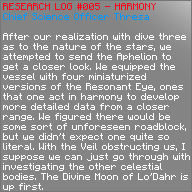
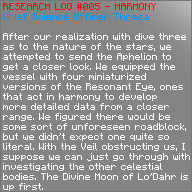
small fixes and tweaks (#81)

Changed region(s): [[0.125, 0.4688, 0.9375, 0.5312]]

diff --git a/docs/World/Drehmal/Overworld.md b/docs/World/Drehmal/Overworld.md
@@ -7,14 +7,14 @@ search:
 
 --8<-- "under_construction.md"
 
-!!! tip "This page is about the world of Drehmal which the player can explore in-game. For the serpent deity that shares a name with the world, see [[Drehmal]]."
+!!! tip "This page is about the world of Drehmal which players can explore in-game. For the serpent deity that shares a name with the world, see [[Drehmal]]."
 
 ![[full_drehmal_map.png]]{ align=center width="800" }
 > The continent of Drehmal and outlying islands, as they appear in-game.[^1]
 
 The continent of **Drehmal** spans approximately 12,000 blocks in either direction, containing a total of [31 unique custom biomes](/World/Drehmal/Regions/), [14 major settlements](/World/Drehmal/Settlements/), and hundreds of carefully placed and crafted [points of interest](/World/Drehmal/Points_of_Interest/). The vast majority of the map's content is found here, including story locations, unique items such as [legendary](/Items/Legendary_Items/) and [mythical](/Items/Mythical_weapons) gear, original builds, and more.
 
-The term **"Drehmal"** used in this context refers to the single large continent that makes up most of the map's total landmass, as well as its minor outlying islands in the far northwest and southeast corners of the map. Drehmal shares its name with its creator, the [[Drehmal|deity]] of the same name, who re-formed and shaped the world after it was ruined in the disastrous events that ended the First Avihm. The term "Drehmal" can also be used to refer to the **[Realm of Drehmal](/Lore/Realm_of_Drehmal/)**, which encompasses the planetary body that Drehmal is found upon, as well as its natural satellites—four moons and the equivalent of a sun—all of which appear to orbit the planet in a roughly geocentric system.
+The term **"Drehmal"** used in this context refers to the single large continent that makes up most of the map's total landmass, as well as its major outlying islands in the far northwest and southeast corners of the map. Drehmal shares its name with its creator, the [[Drehmal|deity]] of the same name, who re-formed and shaped the world after it was ruined in the disastrous events that ended the First Avihm. The term "Drehmal" can also be used to refer to the **[Realm of Drehmal](/Lore/Realm_of_Drehmal/)**, which encompasses the planetary body that Drehmal is found upon, as well as its natural satellites—four moons and the equivalent of a sun—all of which appear to orbit the planet in a roughly geocentric system.
 
 ## Gameplay
 Drehmal is functionally an open world, as once the player emerges from the [[Stasis Facility]], they can choose to explore in any direction. There are areas that the player is pointed towards sometimes, such as [[Drabyel]] and [[Av'Sal]] at the very beginning of the map, but the player is not confined to any particular path. Exploration is fundamentally linked to story progression, as finding and climbing [[Terminus Network#Towers|Avsohmic warp towers]] gradually unlocks story events.
@@ -22,29 +22,28 @@ Drehmal is functionally an open world, as once the player emerges from the [[Sta
 Drehmal's most advanced and largest civilizations have long since fallen by the time that the player's journey begins, with most regions being relatively isolated. Consequently, there are very few maintained roads to guide the player between regions, and those that do exist often trail off at certain points. This is an intentional design choice, as there are points of interest scattered throughout the world off the beaten path. 
 
 ![[map_103.png]]{ width="512" }
-> The map of Drehmal sold by [[Adventuring Merchant|Adventuring Merchants]] in major settlements throughout the continent, denoting major settlements with colored dots.
+> The map of Drehmal sold by [[Adventuring Merchant|Adventuring Merchants]] in official towns throughout the continent, denoting major settlements with colored dots.
 
 Beyond the reaches of the continent, sea stretches out for a few hundred blocks before abruptly falling off into the void.
-
 
 ## Lore
 The history of Drehmal is effectively the same as the history of the entire map, which is what this entire [Lore](/Lore/) section is for. Therefore, this article's lore will focus on the history of the terrain itself, as well as extremely prominent bits of lore that have to do with the main story.
 
-Reality as known in Drehmal was first formed around the [[Primal Tree]]: a sentient, colossal tree imbued with astronomical amounts of power. The Tree created the [Aspects](/Lore/Higher_Beings/Aspects/), draconic gods tied to certain concepts and domains of reality such as the [[Dahr|Sea]], [[Khive|Magic]], or [[Lai|Warmth]]. These Aspects, along with the Tree, built the world during the First Avihm, an era that is effectively considered prehistorical in modern Drehmal. Aspects created portions of the land corresponding to their domains; for example, [[Nahyn]], Aspect of Mountains, is responsible for much of Drehmal's mountains, and the Land Aspect [[Taihgel]] was particularly active in creating the actual land that formed the continent. During this era, [[Drehmari]] were first created by the tree, and populated three separate continents. Eventually, however, war broke out, and the [[Battle of Karesh]] was fought at the base of the tree, a battle so violent that it began to burn down the Primal Tree. In its final act, the Tree split its essence into the three [Deities](/Lore/Higher_Beings/Deities/): [[Maelihs]], [[Virtuo]], and [[Drehmal]], creating three new gods with power even greater than the Aspects, and who would take a much more active role in the history of the world.
+Reality as known in Drehmal was first formed around the [[Primal Tree]]: a sentient, colossal tree imbued with astronomical amounts of power. The Tree created the [Aspects](/Lore/Higher_Beings/Aspects/), draconic gods tied to certain concepts and domains of reality such as the [[Dahr|Sea]], [[Khive|Magic]], or [[Lai|Warmth]]. These Aspects, along with the Tree, built the world during the First Avihm, an era that is effectively considered prehistorical in modern Drehmal. Aspects created portions of the land corresponding to their domains; for example, [[Nahyn]], Aspect of Mountains, is responsible for much of Drehmal's mountains, and the Land Aspect [[Taihgel]] was particularly active in creating the actual land that formed the continent. During this era, [[Drehmari]] were first created by the tree, and populated three separate continents. Eventually, however, war broke out, and a battle was fought at the base of the tree, becoming so violent that it began to burn the tree down. In its final act, the Tree split its essence into the three [Deities](/Lore/Higher_Beings/Deities/): [[Maelihs]], [[Virtuo]], and [[Drehmal]], creating three new gods with power even greater than the Aspects, and who would take a much more active role in the history of the world.
 
-The Felling of the Tree marked the end of the First Avihm, with the ensuing chaos literally splitting the world into pieces. The task of reconstruction fell to Drehmal, the newly born colossal serpentine creator deity, and they set to their task, earning the title of "Realmbinder." Drehmal spent decades traveling to the extents of the planet, tying pieces of land back together and mending the broken world, slowly making the world habitable again until it eventually reached the approximate state that we find it in, during the early Second Avihm. The modern-day Drehmal appears to be effectively a single supercontinent made up of the original central continent, in addition to bits and pieces of the former western/eastern continents, although the exact extent to which this is true is not known. 
+This event, the [[Felling|Felling of the Primal Tree]], marked the end of the First Avihm, with the ensuing chaos literally splitting the world into pieces. The task of reconstruction fell to Drehmal, the newly born colossal serpentine creator deity, and they set to their task, earning the title of "Realmbinder." Drehmal spent decades traveling to the extents of the disc, tying pieces of land back together and mending the broken world, slowly making the world habitable again until it eventually reached the approximate state that we find it in, during the early Second Avihm. The modern-day Drehmal appears to be effectively a single supercontinent made up of the original central continent, in addition to bits and pieces of the former western/eastern continents, although the exact extent to which this is true is not known. 
 
-Of note, Drehmal is not the only land on [[Disc|its planet]], as there are two forgotten continents far to the west and east of even its outermost islands, which were excluded from the new continent by Drehmal in their reformation efforts. These continents, known as [[Western Xivrhynt]] and [[Eastern Xivrhynt]], are mentioned very sparingly in the map, but their existence is known to a select few. It is not known exactly how much of modern-day Drehmal may have been rearranged in the deity's active period, nor is it clear if parts of the continent may have originally been part of what we now know as Xivrhynt. These continents do not actually exist in-game. 
+Of note, Drehmal is not the only land on [[Disc|its planet]], as there are two forgotten continents far to the west and east of even its outermost islands, which were excluded from the new continent by Drehmal in their reformation efforts. These continents, known collectively as **"Xivrhynt"** (and separately as [[Western Xivrhynt]] and [[Eastern Xivrhynt]]), are mentioned very sparingly in the map, but their existence is known to a select few. It is not known exactly how much of modern-day Drehmal may have been rearranged in the deity's active period, nor is it clear if parts of the continent may have originally been part of what we now know as Xivrhynt. These continents do not actually exist in-game. 
 
 After their work had been finished in early Av2, [[Drehmal]] entered a deep slumber far beneath the [[Primal Caverns]], and has not awoken to this day, well over 2000 years later.
 
 The terrain of Drehmal has changed very little in the time since Drehmal's active period, with a few notable exceptions. The Empire of [[Avsohm]], in power for approximately 200 years at the end of Av2, was easily the most expansive empire to ever exist on the continent, as well as the most technologically advanced. Their construction efforts, particularly in the building of research and industrial facilities, altered the Drehmal landscape, including through the construction of massive pipelines throughout the regions of [[Akhlo'Rohma]] and [[Faehrcyle]]. Their [[Fall of Avsohm|violent collapse]] marked the end of Av2, and left the continent covered in the ruins of their cities, towns, and facilities.
 
-During the reign of Avsohm, the [[Frostfang Catastrophe]] occurred, known to this day as the greatest ecological disaster in the realm's history. In a conflict between Avsohm and the tribes of [[Faehrcyle]], the Faehrcylian leader [[Homli Tahsgan]] accidentally conjured a blizzard so massive that it permanently altered the climates of multiple northern regions, including Faehrcyle, [[Highfall Tundra]], the [[Gulf of Drehmal]], [[Merijool]], and [[Casai]]. All of these regions were once much more lush and fertile than they are today, irreversably being made colder by the magical blizzard, with Faehrcyle suffering the most, turning from a cold steppe into a frozen wasteland, eternally buried under a meters-thick layer of snow.
+During the reign of Avsohm, the [[Frostfang Catastrophe]] occurred, known to this day as the greatest ecological disaster in the realm's history. In a conflict between Avsohm and the tribes of [[Faehrcyle]], the Faehrcylian leader [[Homli Tahsgan]] accidentally conjured a blizzard so massive that it permanently altered the climates of multiple northern regions, including Faehrcyle, [[Highfall Tundra]], the [[Gulf of Drehmal]], [[Merijool]], and [[Casai]]. All of these regions were once much more lush and fertile than they are today, irreversibly being made colder by the magical blizzard. Faehrcyle suffered the most, turning from a cold steppe into a frozen wasteland, eternally buried under a meters-thick layer of snow.
 
-The most recent major alteration to the terrain of Drehmal came in mid-late Av3, approximately 400 years before the player's journey. This event, the Desolation of the Heartwood, was enacted by the chaos deity [[Maelihs]], who dropped the [[Skullmother]] (the approximate equivalent of a nuclear bomb) on the [[South Heartwood]], a once-lush forest/jungle region. The ensuing blast, more a show of power and act of terror than a true military advance, permanently burnt and made infertile the entire southern half of the Heartwood, once the largest forest in all of Drehmal, leaving the land scarred to this very day.
+The most recent major alteration to the terrain of Drehmal came in mid-late Av3, approximately 400 years before the player's journey. This event, the Desolation of the Heartwood, was enacted by the chaos deity [[Maelihs]], who dropped the [[Skullmother]] (the approximate equivalent of a nuclear bomb) on the [[South Heartwood]], a once-lush forest/jungle region. The ensuing blast, more a show of power and act of terror than a true military advance, permanently burnt and made infertile the entire southern half of the Heartwood, once the largest forest in all of Drehmal, leaving the land scarred to this very day. For this reason, the South Heartwood is now more frequently referred to as "Mael's Desolation".
 
-## Dev Area
-At approximately X=27000, Z=0, there is a large area containing multiple arenas, dungeons, and hub locations, as well as test builds and planning areas. This portion of the map, known as the "Dev Area," is where the player is teleported during certain sequences that require a different setup than their real locations would allow, or if the area is simply meant to be kept away from the player's eyes. While it is possible to clip out into the dev area, this is **NOT** recommended, as there are extremely important functions reliant on this area, and it is not canon to the map or intended to ever be seen. In fact, even approaching certain areas will instantly kill the player, even if in Creative Mode or when the NoFail setting is enabled.
+## Dev Zone
+At approximately X=27000, Z=0, there is a large area containing multiple arenas, dungeons, and hub locations, as well as test builds and planning areas. This portion of the map, known as the "Dev Zone," is where the player is teleported during certain sequences that require a different setup than their real locations would allow, or if the area is simply meant to be kept away from the player's eyes. While it is possible to clip out into the dev area, this is **NOT** recommended, as there are extremely important functions reliant on this area, and it is not canon to the map or intended to ever be seen. In fact, even approaching certain areas will instantly kill the player, even if in Creative Mode or when the NoFail setting is enabled.
 
 [^1]: Image captured with [Xaero's World Map](https://www.curseforge.com/minecraft/mc-mods/xaeros-world-map/files/all?page=1&pageSize=20&version=1.20.1&gameVersionTypeId=4), a mod that is not part of the official Drehmal modpack but is compatible with the map. This mod is not recommended for first-time players, as it will immediately spoil all terrain features upon being opened for the first time, unlike progression-based mods like [JourneyMap](https://www.curseforge.com/minecraft/mc-mods/journeymap/files/all?page=1&pageSize=20&version=1.20.1&gameVersionTypeId=4). However, it can be a very valuable tool for returning players or successive playthroughs, or if you simply are not bothered by this type of spoiler.

diff --git a/docs/Lore/Historical_Events/Conflicts/Battle_for_Drehmal.md b/docs/Lore/Historical_Events/Conflicts/Battle_for_Drehmal.md
@@ -13,7 +13,7 @@ Masters Ultva and Hovadchear, the founders of the Order of Insohm, were greatly 
 
 ## Early War
 
-The progress of the Insohmic Coalition was initially slow, despite significant monetary support from the Council's governments. [[Castle Scarstone]] was constructed on mountains east of the [[North Heartwood]] as a base of operations for the war. The situation worsened in Av3 847 when [[Castle Hovadchear Crater|Castle Hovadchear]], the headquarters of the Order, disappeared suddenly and inexplicably along with Master Hovadchear and only left a large crater behind. Not long later, Master Ultva locked himself inside an [[Avsohmic Vault|Avsohmic vault]] in [[Casai]] after seemingly going insane from reading something inside. He was never seen again. The king (name unknown) of Highfall and Duke Duruis of the Kingdom of Dusps threatened to pull their troops out of the West because of their fruitless war spending, and form their own alliance, separate from Insohm. A meeting of the Insohmic Council was called aboard the airship [[I.C.S. Arbiter]]. Councillor Sehdo of the United Townships of Dreh'Noha expressed his wish to leave the coalition unless immediate progress was seen, but Councilor Zarna of the Casain Empire and Councillor Qeijo of the Republic of Merijool, who were at greater risk due to their lands' proximity to Maelihs's empire, threatened anyone trying to leave the Order with war. After a heated argument between council members, Councillor Vahid of the Parochial Enclave of Firteid entered a long and passionate monologue about the sins of Maelihs, with the attention of the entire council. This motivated the councillors in their war efforts, and after a unanimous vote, the Pact of Vengeance was signed, instating Vahid as the new Master of Insohm.
+The progress of the Insohmic Coalition was initially slow, despite significant monetary support from the Council's governments. [[Castle Scarstone]] was constructed on mountains east of the [[North Heartwood]] as a base of operations for the war. The situation worsened in Av3 847 when [[Castle Hovadchear Crater|Castle Hovadchear]], the headquarters of the Order, disappeared suddenly and inexplicably along with Master Hovadchear and only left a large crater behind. Not long later, Master Ultva locked himself inside an [[Avsohmic Vault|Avsohmic vault]] in [[Casai]] after seemingly going insane from reading something inside. He was never seen again. The king (name unknown) of Highfall and Duke Duruis of the Kingdom of Dusps threatened to pull their troops out of the West because of their fruitless war spending, and form their own alliance, separate from Insohm. A meeting of the Insohmic Council was called aboard the airship [[ICS Arbiter]]. Councillor Sehdo of the United Townships of Dreh'Noha expressed his wish to leave the coalition unless immediate progress was seen, but Councilor Zarna of the Casain Empire and Councillor Qeijo of the Republic of Merijool, who were at greater risk due to their lands' proximity to Maelihs's empire, threatened anyone trying to leave the Order with war. After a heated argument between council members, Councillor Vahid of the Parochial Enclave of Firteid entered a long and passionate monologue about the sins of Maelihs, with the attention of the entire council. This motivated the councillors in their war efforts, and after a unanimous vote, the Pact of Vengeance was signed, instating Vahid as the new Master of Insohm.
 
 ## Success Under Vahid
 

diff --git a/docs/Items/Fervor_Stones.md b/docs/Items/Fervor_Stones.md
@@ -72,10 +72,21 @@ The Stone of Worry is one of three Fervor Stone variants, appearing as a deep re
     | [[Ebony Veldt]] | In the ruins of [[Caer Adacia]]. Deep underground, a building has a staircase which appears to be blocked off by collapsed rubble. Digging through this rubble leads to a small altar with the stone in an item frame. | **(-1285, 5, 416)** |
     | [[Mt. Yavhlix]] | In a shulker box in the [[Resonant Halls]], inside the same side room that contains the [[Activity_Log-_Project_Panopticon.md|Activity Log - Project Panopticon]] book. | **(26897, 78, -43)** |
 
-## Final Locations and Use
+## Final Locations
 !!! danger "If you have not reached 75% completion or finished the full 75% story sequence through the "Apotheosis" advancement, we strongly advise that you do not continue to read this article."
 
 !!! danger "![Spoiler Door](/assets/img/spoiler_door.png)"
+
+The final three Fervor Stones are found on [[Lo'Dahr]].
+
+??? warning "Final Fervor Stone Locations"
+    | **Fervor Stone** | **Domain** | **Location** | **Coordinates** |
+    |:----------------:|:----------:|:-------------------------------------------|:------------:|
+    | Agony            | [[Nahyn's Domain]] | In a chest near the top of [[Fort Aelon]]. | **(79, 194, -254)** |
+    | Luxury           | [[Moen's Domain]] | In a hidden building in [[Naharja]], reached by digging through a wall, in a chest behind a banner. | **(252, 78, -825)** |
+    | Worry            | [[Loe's Domain]] | In an isolated room along the [[Greyspire Castle]] roof. | **(-845, 215, 516)** |
+
+## Use
 
 Fervor Stones are used to upgrade [Mythical Weapons](/Items/Mythical_Weapons/) at the Soletta, the fabled forge in [[Ytaj]] behind the Prismatic Council room. 
 
@@ -93,14 +104,7 @@ Stones of Luxury add a permanent +4 Max Health (+2 Hearts) buff to the mythical 
 
 Stones of Worry add a permanent +0.01 Movement Speed to the mythical weapon when held, adding to existing bonuses or penalties in the same manner as Stones of Luxury.
 
-The final three Fervor Stones are found on [[Lo'Dahr]].
-
-??? warning "Final Fervor Stone Locations"
-    | **Fervor Stone** | **Domain** | **Location** | **Coordinates** |
-    |:----------------:|:----------:|:-------------------------------------------|:------------:|
-    | Agony            | [[Nahyn's Domain]] | In a chest near the top of [[Fort Aelon]]. | **(79, 194, -254)** |
-    | Luxury           | [[Moen's Domain]] | In a hidden building in [[Naharja]], reached by digging through a wall, in a chest behind a banner. | **(252, 78, -825)** |
-    | Worry            | [[Loe's Domain]] | In an isolated room along the [[Castle Greyspire]] roof. | **(-845, 215, 516)** |
+Only one type of each Fervor Stone may be applied to a given weapon: it is not possible to, for instance, stack three Stones of Worry onto a single mythical.
 
 ## Extras
 There are exactly enough Fervor Stones in the map to upgrade all 8 Mythical weapons, so losing or accidentally destroying one (which can occur at the Soletta through known, but rare bugs) could lock the player out of fully upgrading all Mythicals. 

diff --git a/docs/World/Drehmal/Regions/Eastern_Regions/Akhlo'Rohma.md b/docs/World/Drehmal/Regions/Eastern_Regions/Akhlo'Rohma.md
@@ -13,7 +13,7 @@ Akhlo'Rohma is made up of mostly flat grassland with some large terracotta hills
 - Central: The flowers of the central segment consist of a pink, red and gold color pallette. This area consists generally of flatter grassland, with some rolling hills. <br>
 - South: The southern segment has flowers that are primarily purple and blue, but also have red, pink and gold/yellow features. <br>
 
-The region also includes the [[Sunken Astral Body]], a large crater with a lake at the bottom, containing a stone island riddled with smaller craters. The Akhlo'Rohman landscape features bluffs and rocks with vividly-colored terracotta, mostly dark pink and red, but also with some stripes of yellow, blue and green.
+The region also includes the Sunken Astral Body, a large crater with a lake at the bottom, containing a stone island riddled with smaller craters. The Akhlo'Rohman landscape features bluffs and rocks with vividly-colored terracotta, mostly dark pink and red, but also with some stripes of yellow, blue and green.
 
 The city of [[Dusps]] is located atop a colorful hill in southern Akhlo'Rohma, along with the small village of [[Marahza]] to the north, on the south banks of the Resting River. 
 
@@ -84,7 +84,7 @@ Azaim was a city in north Akhlo'Rohma that was settled by Casain migrants. It wa
 
 ### Sunken Astral Body
 
-The Sunken Astral Body is a chunk of the moon of [[LD|Lo'Dahr]] that fell onto Drehmal, forming a massive crater on impact. The mini-biome's ground consists of stone riddled with craters, and the effect of gravity here is reduced. The area is also inhabited by the static, giant jellyfish-like creatures (represented by glass structures in-game) native to Lo'Dahr.
+Located in the mountains east of Dusps, the Sunken Astral Body is a chunk of the moon of [[LD|Lo'Dahr]] that fell onto Drehmal, forming a massive crater on impact. The mini-biome's ground consists of stone riddled with craters, and the effect of gravity here is reduced. The area is also inhabited by static, giant jellyfish-like creatures (represented by glass structures in-game).
 
 Towards the end of the game, this site serves as the entrance to a story location, which cannot be accessed until a very specific point.
 

diff --git a/docs/Story_and_Features/Devotion.md b/docs/Story_and_Features/Devotion.md
@@ -60,7 +60,7 @@ Drehmal's devotion hint book reads as follows:
 Devotion hints for Drehmal are found at the base of statues of the serpent throughout the [Central Regions](/World/Drehmal/Regions/Central_Regions/).
 
 ??? info "Hint Locations"
-    Statues of Drehmal with offerings can be found in [[Drehua Temple]], [[Drabyel]], [[Gozak]], near the [[Palisades Heath#Drehuan Sculptures|Drehuan Sculptures in Palisades Heath]], [[Solvei]], and [[Drahbes]].
+    Statues of Drehmal with offerings can be found in [[Drehua Temple]], [[Drabyel]], [[Gozak]], near the [[Palisades Heath#Drehuan Sculptures|Drehuan Sculptures in Palisades Heath]], [[Solvei]], the ruins of [[North Heartwood#Ruins of Rhaverik|Rhaverik]], and [[Drahbes]].
 
 ??? question "Accepted Offerings"
     | **Value**      | **Items**                                  |
@@ -180,7 +180,7 @@ Vayniklah's devotion hint book reads as follows:
 Hints for Vayniklah's devotion items are found inside large kegs of mead, scattered throughout [[Akhlo'Rohma]]. Items inside of these kegs, at the bottom of the water in an item frame, are high-level offerings to the Aspect of Life. All of these kegs are marked with a sign that references the item inside, and all share the exact same build pattern.
 
 ??? info "Hint Locations"
-    There are 5 of these kegs in the region, found at the following locations: a [[Maelmari]]-occupied house in the southwest, the basement of [[Ancehl Castle]], [[Dusps]] near the Northern Kitchen restaurant, [[Marahza]] very close to the Temple of Bloom and Bough, and [[Akhlo'Rohma#Esipelli Vineyard|Esipelli Vineyard]].
+    There are 6 of these kegs in the region, found at the following locations: a [[Maelmari]]-occupied house in the southwest, the basement of [[Ancehl Castle]], [[Dusps]] near the Northern Kitchen restaurant, [[Marahza]] very close to the Temple of Bloom and Bough, on an isolated plateau in the northeast, and [[Akhlo'Rohma#Esipelli Vineyard|Esipelli Vineyard]].
 
 ??? question "Accepted Offerings"
     | **Value**      | **Items**                                  |

diff --git a/docs/Lore/Higher_Beings/Other/Primal_Tree.md b/docs/Lore/Higher_Beings/Other/Primal_Tree.md
@@ -2,8 +2,8 @@
 
 --8<-- "under_construction.md"
 
-The **Primal Tree** was an extremely powerful organism at the very beginning of the history of Drehmal. It is stated that reality itself formed around the Primal Tree, and that many of the gods of Drehmal—the [Aspects](/Lore/Higher_Beings/Aspects/) and [Deities](/Lore/Higher_Beings/Deities/)—were created by the Tree.
+The **Primal Tree** was an extremely powerful organism at the very beginning of the history of Drehmal. It is stated that reality itself formed around the Primal Tree, and that many of the gods of Drehmal—the [Aspects](/Lore/Higher_Beings/Aspects/) and [Deities](/Lore/Higher_Beings/Deities/)—were created by the Tree. The Tree is also stated to be responsible for the creation of [[Drehmari]].
 
 The Primal Tree only existed during the First Avihm, during which time it created the first Aspects, who in turn were given dominion over certain aspects of reality.
 
-Very little is known about the Tree itself, although it appears to have been sentient to some degree and extremely powerful. During the Battle of Karesh at the end of Av1, the Tree was destroyed at its roots, in an event known as [[Felling|The Felling]]. As the Tree died, it imparted the last of its energy into the three Deities: [[Maelihs]], [[Virtuo]], and [[Drehmal]], ascending them all to godhood with power greater than any of the individual Aspects. The Felling marked the end of the First Avihm.
+Very little is known about the Tree itself, although it appears to have been sentient to some degree and extremely powerful. During a battle at the end of Av1 (possibly the "Battle of Karesh", although this association is not explicitly drawn in-map), the Tree was destroyed at its roots, in an event known as [[Felling|The Felling]]. As the Tree died, it imparted the last of its energy into the three Deities: [[Maelihs]], [[Virtuo]], and [[Drehmal]], ascending them all to godhood with power greater than any of the individual Aspects. The Felling marked the end of the First Avihm.

diff --git a/docs/Story_and_Features/Terminus_Network.md b/docs/Story_and_Features/Terminus_Network.md
@@ -99,7 +99,7 @@ The Terminus was born out of Avsohm's efforts to [[Ring Research Installation#Lo
 
 However, the warp tech was deemed inefficient due to the fact that each ring could only connect to its one linked ring, and vice versa. Thus, Vortu, an Avsohmic officer aboard the Aphelion, came up with the idea of a central hub where important locations could all be linked to, allowing for extremely rapid transfer of personnel, cargo, and energy around the empire. 
 
-The Terminus itself was built as a satellite to the Aphelion, allowing for direct access to and from Avsohm's flagship via the Terminus. The first Terminus tower was commissioned inside of the [[Primary Collection Facility]] in [[Mt. Yavhlix]], with the purpose of instantly transporting streams of freshly drawn [[Primal Energy|primal energy]]. Many more towers were built and planted across Drehmal (inside *and* outside the empire's territory), some in or near major Avsohmic cities.
+The Terminus itself was built as a satellite to the Aphelion, allowing for direct access to and from Avsohm's flagship via the Terminus. The first Terminus tower was commissioned inside of the [[Primary Energy Collection Facility]] in [[Mt. Yavhlix]], with the purpose of instantly transporting streams of freshly drawn [[Primal Energy|primal energy]]. Many more towers were built and planted across Drehmal (inside *and* outside the empire's territory), some in or near major Avsohmic cities.
 
 The new Terminus-based energy network proved to be extremely convenient for the empire. There were plans to construct even more warp towers that would be placed at every significant Avsohmic facility, but these plans never came to fruition before [[Fall of Avsohm|Avsohm's untimely collapse]].
 

diff --git a/docs/Story_and_Features/Advancements.md b/docs/Story_and_Features/Advancements.md
@@ -159,7 +159,7 @@ This section contains the 57 advancements contained in the bottom three root nod
     | Supersoldier Certification | Now you'll be known as 'Captain Drehmal'. - Cleared all 6 waves of the Arena | Complete all 6 waves of the Arena within the [[Foundry]]. |
     | Temporal Ruins | An ancient city of science and knowledge, locked in a temporal stasis preventing structural degradation. - Discovered Sal'Mevir | Enter [[Sal'Mevir]]. |
     | All That Remains | Avsohm was highly technologically advanced, yet they still fell to ruin. - Discovered the Exodus Citadel | Enter the [[Exodus Citadel]]. |
-    | I'm on the moooon... it's made of cheeeeese... | Why do I feel so much lighter? - Discovered a sunken Astral Body | Discover the [[Sunken Astral Body]]. |
+    | I'm on the moooon... it's made of cheeeeese... | Why do I feel so much lighter? - Discovered a sunken Astral Body | Discover the [[Akhlo'Rohma#Sunken Astral Body|Sunken Astral Body]]. |
     | Vault of Knowledge | Avsohm stored scores of knowledge within expansive hidden libraries and vaults across the realm. - Discovered the last Avsohmic Vault | Discover the [[Avsohmic Vault]] off the Casain coast. |
     | The Lost Cavern | Ages ago, Avsohm used this cave to gather Rehntite, an incredibly strong mineral with untold arcane potential. Unfortunately, the method of extraction has been lost to time. - Discovered the Rehntite Cave | Enter the [[Rehntite Cave]]. |
     | A Mountain of Holes | This mountain emanates a strange, resonating energy. You feel… empty. - Journeyed to Mt. Yavhlix | Discover the outside of [[Mt. Yavhlix]]. |

diff --git a/docs/Story_and_Features/Story_Progression.md b/docs/Story_and_Features/Story_Progression.md
@@ -149,7 +149,7 @@ This is not the end of the story.
 ## Azimuth Labs (POST-YAV/END-GAME SPOILERS BEGIN HERE) { data-search-exclude }
 Once the player returns to Mt. Yavhlix, they will be greeted by a voice in chat, which first appears as three yellow question marks. This voice tells the player that without Tethlaen, the realm is surely doomed, and that although the player already knows far too much, the voice will assist them in weaving the final threads of Avsohm's fate. 
 
-The voice instructs the player to return to the Terminus, where it takes control of avSYS. It dispenses the Silent Thing, a [[Trinkets|trinket]] which directs the player to the [[Sunken Astral Body]], east of [[Dusps]].
+The voice instructs the player to return to the Terminus, where it takes control of avSYS. It dispenses the Silent Thing, a [[Trinkets|trinket]] which directs the player to the [[Akhlo'Rohma#Sunken Astral Body|Sunken Astral Body]], east of [[Dusps]].
 
 At the Sunken Astral Body, the voice will manifest once again, summoning a bolt of energy to destroy a veilstone seal in the ground and grant the player access to [[Azimuth Labs]], the secret former headquarters of Avsohm's alchemical branch, [[Red Dawn]]. Here, the player can find evidence of unethical experimentation and advanced military plans, making clear Avsohm's intention to completely overtake the [Aspects](/Lore/Higher_Beings/Aspects/) and rule over all realms.
 

diff --git a/docs/World/Drehmal/Settlements/index.md b/docs/World/Drehmal/Settlements/index.md
@@ -15,11 +15,11 @@ Scattered throughout the map of [[Overworld|Drehmal]] are many different settlem
 | [[Fort Nimahj]]     | [[North Tharxax]]    | 24                                              |
 | [[Okeke]]           | [[Merijool]]         | 32                                              |
 | [[Mohta]]           | [[Lorahn'Kahl]]      | 50                                              |
-| [[New Drabyel]]     | [[Capital Valley]]   | 35                                              | 
+| [[Drabyel|New Drabyel]]     | [[Capital Valley]]   | 35                                              | 
 | [[Dusps]]           | [[Akhlo'Rohma]]      | 96                                              |
 | [[Gozak]]           | [[North Heartwood]]  | 28                                              |
 | [[Firteid]]         | [[Black Jungle]]     | 516 (including [[Kiln of Virtuo|Kiln]] district) |
-| [[New Mossfield]]   | [[Spearhead Forest]] | 40                                              |     
+| [[Mossfield|New Mossfield]]   | [[Spearhead Forest]] | 40                                              |     
 | [[New Sahd]]        | [[Sahd]]             | 53                                              |                    
 | [[Highfall]]        | [[Highfall Tundra]]  | 109                                             |        
 

diff --git a/docs/Story_and_Features/Story_Locations/25_Percent_Event/Sal'Mevir.md b/docs/Story_and_Features/Story_Locations/25_Percent_Event/Sal'Mevir.md
@@ -58,7 +58,7 @@ Four lore books can also be found in this location: <br>
 - [[Researcher Noam's Rant]] is found in the large building, along with the Mythbreaker fragment.
 
 ## Lore
-Sal'Mevir was seemingly an active Avsohmic research site before it was fully commissioned by the [[DoS]], and appears to have been [[Thought-recording_of_Ekari,_Number_8710.md|initially designed]] by the architect [[Ekari]].
+Sal'Mevir was seemingly an active Avsohmic research site before it was fully commissioned by the [[Avsohm#Department of Science|DoS]], and appears to have been [[Thought-recording_of_Ekari,_Number_8710.md|initially designed]] by the architect [[Ekari]].
 
 At some point in the late second Avihm, a researcher named Arlea made a discovery that spurred Avsohm to fully convert the site into a government-run Ancillary Research Facility, placing specific emphasis on the research of runes with power over time. Combining the discoveries of Arlea with [[Baen Vehmil|Vehmil]] and [[Thresa Vera|Thresa]]'s stasis technology, this facility saw the creation of the first temporal stasis pod prototypes. Eventually, these were improved upon to the point that they saw use throughout the empire, predominantly at the [[Stasis Facility]] and in the punishment of criminals.
 

diff --git a/docs/Story_and_Features/Holotexts/Post-Yav/Resonant_Halls/eye_log5.md b/docs/Story_and_Features/Holotexts/Post-Yav/Resonant_Halls/eye_log5.md
@@ -18,4 +18,4 @@ This holotext can be found at the Resonant Eye, deep within the [[Resonant Halls
 ## Transcription
 > **Chief Science Officer Thresa**
 >
-> After our realization with dive three as to the nature of the stars, we attempted to send the Aphelion to get a closer look. We equipped the vessel with four miniaturized versions of the Resonant Eye, ones that one act in harmony to develop more detailed data from a closer range. We figured there would be some sort of unforeseen roadblock, but we didn’t expect one quite so literal. With the Veil obstructing us, I suppose we can just go through with investigating the other celestial bodies. The Divine Moon of Lo’Dahr is up first.
+> After our realization with dive three as to the nature of the stars, we attempted to send the Aphelion to get a closer look. We equipped the vessel with four miniaturized versions of the Resonant Eye, ones that act in harmony to develop more detailed data from a closer range. We figured there would be some sort of unforeseen roadblock, but we didn’t expect one quite so literal. With the Veil obstructing us, I suppose we can just go through with investigating the other celestial bodies. The Divine Moon of Lo’Dahr is up first.
